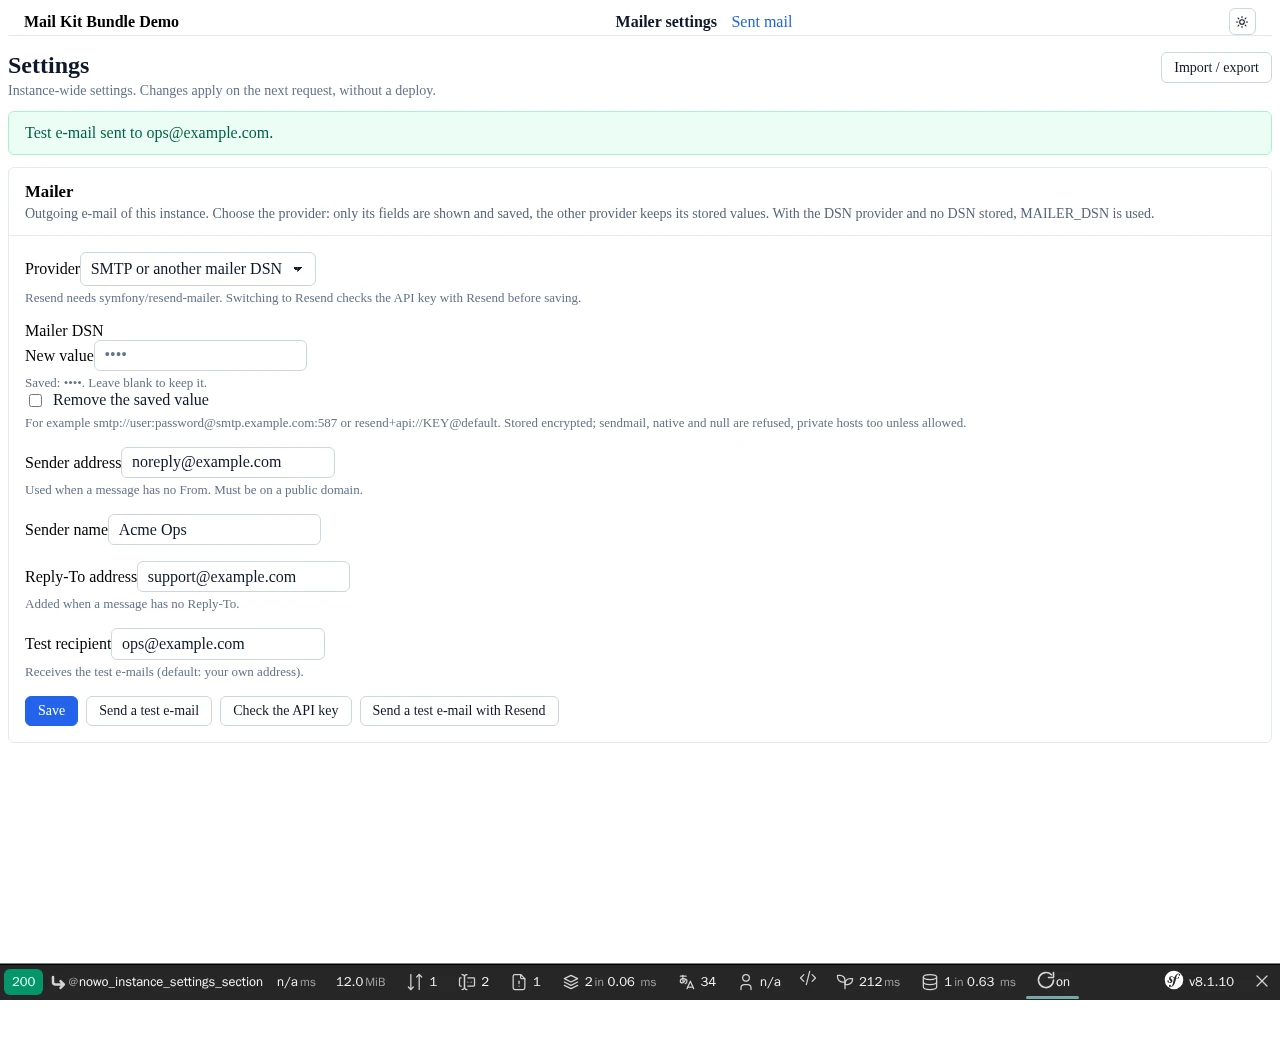
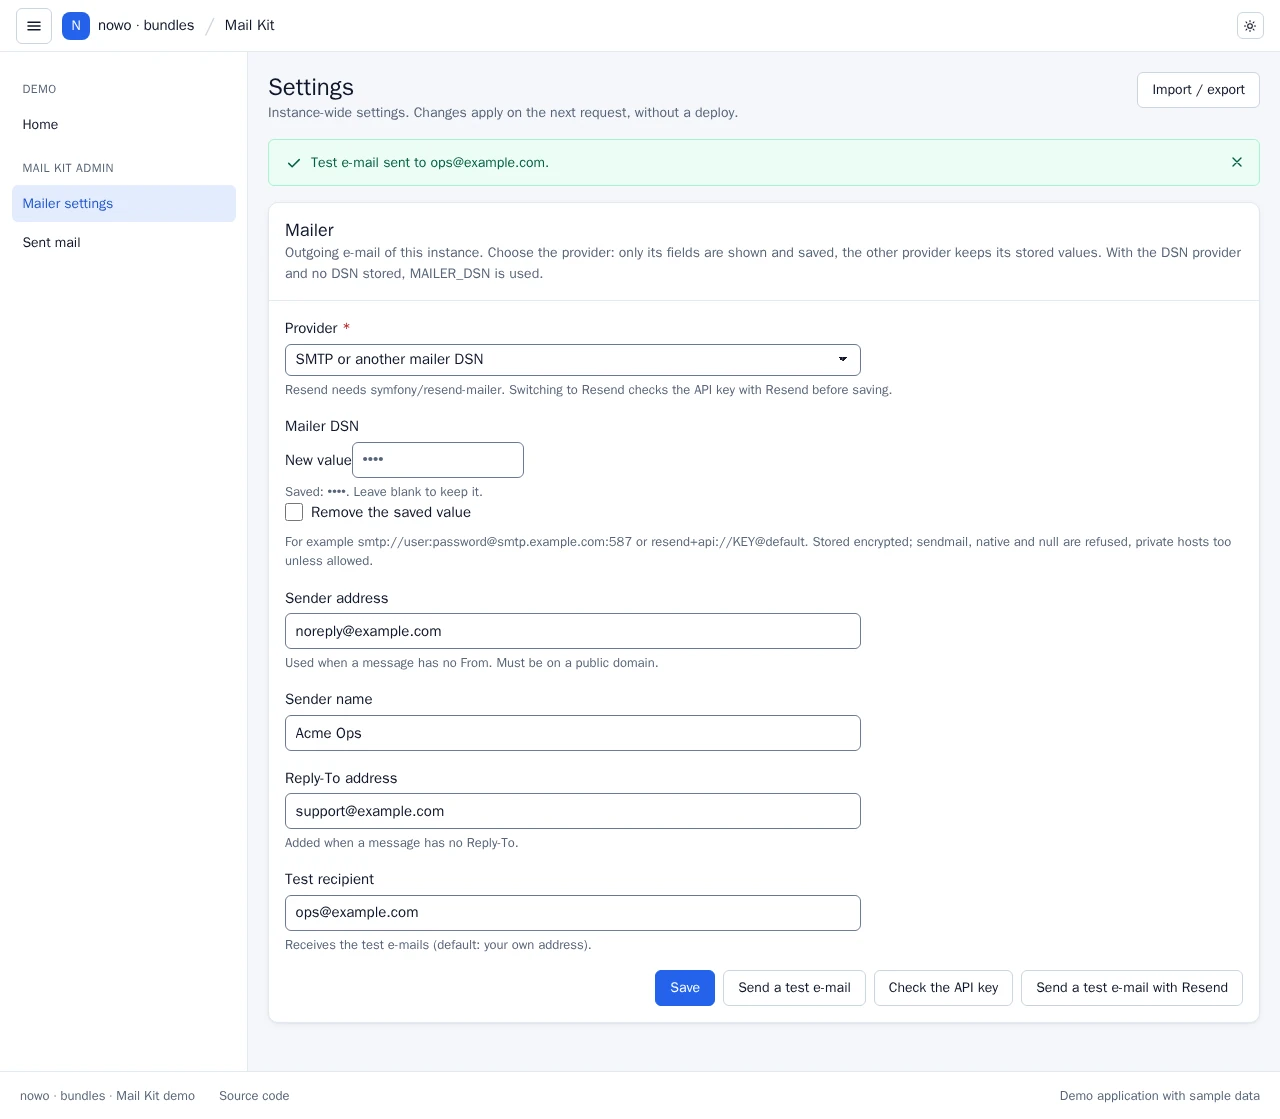
chore(demo): run the demo in UiKit's demo platform shell (#50)

diff --git a/demo/symfony8/e2e/tests/demo-platform.spec.ts b/demo/symfony8/e2e/tests/demo-platform.spec.ts
@@ -1,0 +1,172 @@
+import { test, expect, type Page } from '@playwright/test';
+import AxeBuilder from '@axe-core/playwright';
+
+/**
+ * REQ-DEMO-014: the demo runs inside UiKit's demo platform shell. Every demo page, at 1440 px and at 390 px with a touch
+ * context: the shell layout and style rules (no demo styles, no host theme tokens, no framework classes, 44 px targets,
+ * input borders 3:1), axe (wcag2a / 2aa / 21a / 21aa, serious + critical = 0) in light and dark, and the keyboard drawer.
+ */
+const PAGES: Array<{ name: string; path: string; auth?: boolean }> = [
+  { name: 'home', path: '/' },
+  { name: 'mailer settings', path: '/admin/settings/sections/mailer' },
+  { name: 'sent mail log', path: '/admin/mail/log?period=all' },
+];
+
+/** Signs the demo user in (pages marked `auth`). */
+async function signIn(page: Page): Promise<void> {
+  // this demo has no sign-in
+}
+
+async function open(page: Page, def: { path: string; auth?: boolean }): Promise<void> {
+  if (def.auth) {
+    await signIn(page);
+  }
+  await page.goto(def.path);
+}
+
+type Theme = 'light' | 'dark';
+
+async function setTheme(page: Page, theme: Theme): Promise<void> {
+  await page.evaluate((t) => {
+    document.documentElement.setAttribute('data-theme', t);
+    document.documentElement.setAttribute('data-bs-theme', t);
+  }, theme);
+}
+
+async function axe(page: Page): Promise<string[]> {
+  const result = await new AxeBuilder({ page }).withTags(['wcag2a', 'wcag2aa', 'wcag21a', 'wcag21aa']).exclude('.sf-toolbar').analyze();
+  return result.violations
+    .filter((v) => v.impact === 'serious' || v.impact === 'critical')
+    .map((v) => `${v.id}: ${v.nodes.map((n) => n.target.join(' ')).join(', ')}`);
+}
+
+/* eslint-disable */
+// prettier-ignore
+function demoPlatformRules(): string[] {
+  const issues = [];
+  const main = document.querySelector('#nowo-ui-content');
+  const shell = document.querySelector('[data-testid="demo-platform"]');
+  if (!main || !shell) return ['no-demo-platform-shell'];
+  const visible = (el) => !!(el.offsetWidth || el.offsetHeight || el.getClientRects().length);
+  const carded = (el) => el.closest('.nowo-ui-card, [data-nowo-ui-region="table"], [data-nowo-ui-region="form"], .nowo-ui-form-panel, dialog');
+  const skip = (el) => el.closest('dialog, [data-nowo-ui-region="filters"], .nowo-ui-filters, .nowo-ui-page-header');
+
+  // Layout grammar.
+  main.querySelectorAll('table').forEach((t) => { if (!carded(t)) issues.push('table-outside-card'); });
+  main.querySelectorAll('form').forEach((f) => {
+    if (f.querySelector('input:not([type="hidden"]), select, textarea') && !carded(f) && !skip(f) && !f.closest('table')) issues.push('form-outside-card');
+  });
+  const primaries = [...main.querySelectorAll('.nowo-ui-btn--primary')].filter((b) => visible(b) && !b.closest('table, dialog, [data-nowo-ui-region="filters"], .nowo-ui-filters, form'));
+  if (primaries.length > 1) issues.push(`primary-buttons:${primaries.length}`);
+  const header = main.querySelector('.nowo-ui-page-header');
+  const flashes = main.querySelector('.nowo-ui-flashes');
+  if (header && flashes && (flashes.compareDocumentPosition(header) & Node.DOCUMENT_POSITION_FOLLOWING)) issues.push('flashes-before-page-header');
+  if (document.documentElement.scrollWidth > document.documentElement.clientWidth + 1) issues.push('page-scrolls-horizontally');
+
+  // Styles: no demo styles, no host theme tokens, no CDN / foreign stylesheet, no framework classes inside the shell.
+  document.querySelectorAll('style').forEach((s) => {
+    if (s.matches('[data-nowo-ui-theme-tokens], [data-nowo-ui-appearance]')) { issues.push('host-theme-tokens'); return; }
+    if (!/sf-toolbar|sfwdt|sf-minitoolbar|sf-display/.test(s.textContent || '') && !s.closest('[id^="sfwdt"], .sf-toolbar')) issues.push('style-element');
+  });
+  document.querySelectorAll('link[rel="stylesheet"]').forEach((l) => {
+    const path = new URL(l.href, location.href).pathname;
+    if (!path.startsWith('/bundles/') && !path.startsWith('/_wdt/') && !path.startsWith('/_profiler/')) issues.push(`stylesheet:${path}`);
+  });
+  const framework = /^(acme-.*|nav-tabs|nav-link|nav-item|alert|alert-.*|form-check.*|form-control|form-select|form-label|btn|btn-.*|card|card-.*|badge|row|col|col-.*|table|table-.*)$/;
+  shell.querySelectorAll('[class]').forEach((el) => {
+    for (const c of el.classList) { if (framework.test(c)) { issues.push(`framework-class:${c}`); break; } }
+  });
+
+  // Drawer: below 901 px a closed drawer is inert and the burger says so.
+  const aside = shell.querySelector('[data-nowo-ui-aside]');
+  if (aside && window.innerWidth < 901) {
+    const open = shell.classList.contains('is-aside-open-mobile');
+    if (!open && !aside.hasAttribute('inert')) issues.push('drawer-not-inert');
+    shell.querySelectorAll('[data-nowo-ui-burger]').forEach((b) => {
+      if (visible(b) && b.getAttribute('aria-expanded') !== (open ? 'true' : 'false')) issues.push('burger-state');
+    });
+  }
+
+  // Touch: 44 px targets on coarse pointers (checkbox / radio 24 px, their label carries the 44 px row).
+  if (window.matchMedia('(pointer: coarse)').matches) {
+    const controls = [...shell.querySelectorAll('.nowo-ui-btn, button, summary, input:not([type="hidden"]), select, textarea, [role="tab"], .nowo-ui-aside__link, .nowo-ui-demo-platform__locale')]
+      .filter((el) => visible(el) && !el.closest('[inert], table, .ts-control'));
+    for (const el of controls) {
+      const r = el.getBoundingClientRect();
+      const small = el.matches('input[type="checkbox"], input[type="radio"]') ? r.height < 24 || r.width < 24 : r.height < 43.5;
+      if (small) { issues.push(`target-under-44px:${(el.className && String(el.className).split(' ')[0]) || el.tagName.toLowerCase()}`); }
+    }
+  }
+
+  // Inputs: boundary 3:1 or more against the surface behind them (WCAG 1.4.11).
+  const rgb = (c) => { const m = c.match(/[\d.]+/g); return m ? m.slice(0, 4).map(Number) : null; };
+  const lum = (c) => { const v = c.slice(0, 3).map((x) => { const s = x / 255; return s <= 0.03928 ? s / 12.92 : ((s + 0.055) / 1.055) ** 2.4; }); return 0.2126 * v[0] + 0.7152 * v[1] + 0.0722 * v[2]; };
+  const bgOf = (el) => { for (let n = el.parentElement; n; n = n.parentElement) { const c = rgb(getComputedStyle(n).backgroundColor); if (c && (c.length < 4 || c[3] > 0)) return c; } return [255, 255, 255]; };
+  shell.querySelectorAll('input:not([type="hidden"], [type="checkbox"], [type="radio"]), select, textarea').forEach((el) => {
+    if (!visible(el) || el.closest('[inert]')) return;
+    const border = rgb(getComputedStyle(el).borderTopColor);
+    if (!border) return;
+    const a = lum(border); const b = lum(bgOf(el));
+    if ((Math.max(a, b) + 0.05) / (Math.min(a, b) + 0.05) < 3) issues.push(`input-border-under-3:1:${el.id || el.name || el.tagName.toLowerCase()}`);
+  });
+
+  return [...new Set(issues)];
+}
+
+const PHONE = { viewport: { width: 390, height: 844 }, isMobile: true, hasTouch: true };
+
+for (const def of PAGES) {
+  test.describe(`demo platform: ${def.name}`, () => {
+    test('rules at 1440 px', async ({ page }) => {
+      await page.setViewportSize({ width: 1440, height: 900 });
+      await open(page, def);
+      expect(await page.evaluate(demoPlatformRules)).toEqual([]);
+    });
+
+    test('rules at 390 px, touch', async ({ browser }) => {
+      const context = await browser.newContext(PHONE);
+      const page = await context.newPage();
+      await open(page, def);
+      expect(await page.evaluate(demoPlatformRules)).toEqual([]);
+      await context.close();
+    });
+
+    for (const theme of ['light', 'dark'] as const) {
+      test(`axe ${theme}, 1440 px`, async ({ page }) => {
+        await page.setViewportSize({ width: 1440, height: 900 });
+        await open(page, def);
+        await setTheme(page, theme);
+        expect(await axe(page)).toEqual([]);
+      });
+
+      test(`axe ${theme}, 390 px`, async ({ browser }) => {
+        const context = await browser.newContext(PHONE);
+        const page = await context.newPage();
+        await open(page, def);
+        await setTheme(page, theme);
+        expect(await axe(page)).toEqual([]);
+        await context.close();
+      });
+    }
+  });
+}
+
+test('phone drawer: keyboard in and out, inert while closed', async ({ browser }) => {
+  const context = await browser.newContext(PHONE);
+  const page = await context.newPage();
+  await page.goto(PAGES[0].path);
+  const aside = page.locator('[data-nowo-ui-aside]');
+  const burger = page.locator('[data-nowo-ui-burger]').first();
+  await expect(aside).toHaveAttribute('inert', '');
+  await expect(burger).toHaveAttribute('aria-expanded', 'false');
+  await burger.focus();
+  await page.keyboard.press('Enter');
+  await expect(burger).toHaveAttribute('aria-expanded', 'true');
+  await expect(page.locator('[data-nowo-ui-aside] a:focus')).toHaveCount(1);
+  await expect(page.locator('.nowo-ui-main')).toHaveAttribute('inert', '');
+  await expect(page.locator('html')).toHaveClass(/nowo-ui-drawer-open/);
+  await page.keyboard.press('Escape');
+  await expect(burger).toBeFocused();
+  await expect(aside).toHaveAttribute('inert', '');
+  await context.close();
+});

diff --git a/demo/symfony8/e2e/tests/helpers.ts b/demo/symfony8/e2e/tests/helpers.ts
@@ -1,28 +1,11 @@
 import { type Page } from '@playwright/test';
 
-/** Wait until the Symfony Web Debug Toolbar has finished loading (optional outside dev). */
-export async function waitForWebProfiler(page: Page): Promise<void> {
-  await page.waitForSelector('.sf-toolbar', { state: 'visible', timeout: 20000 }).catch(() => undefined);
-  const mini = page.locator('.sf-minitoolbar a').first();
-  if (await mini.isVisible().catch(() => false)) {
-    await mini.click();
-  }
-  await page
-    .waitForFunction(
-      () => {
-        const bar = document.querySelector('.sf-toolbar') as HTMLElement | null;
-        if (!bar || bar.offsetParent === null) {
-          return true;
-        }
-        return !!document.querySelector('.sf-toolbar-block');
-      },
-      { timeout: 25000, polling: 250 },
-    )
-    .catch(() => undefined);
-  await new Promise((r) => setTimeout(r, 400));
-}
-
 /** The section form of the settings scaffold. */
 export function sectionForm(page: Page) {
   return page.locator('form[name="settings_section"]');
+}
+
+/** README screenshots never show the Symfony Web Debug Toolbar. */
+export async function hideWebProfiler(page: Page): Promise<void> {
+  await page.addStyleTag({ content: '.sf-toolbar, .sf-minitoolbar, [id^="sfwdt"] { display: none !important; }' });
 }

diff --git a/demo/symfony8/e2e/tests/screenshots.spec.ts b/demo/symfony8/e2e/tests/screenshots.spec.ts
@@ -1,7 +1,7 @@
 import { test, expect } from '@playwright/test';
 import { mkdirSync } from 'node:fs';
 import { resolve } from 'node:path';
-import { sectionForm, waitForWebProfiler } from './helpers';
+import { hideWebProfiler, sectionForm } from './helpers';
 
 /** REQ-DEMO-013 — README screenshots (captured as PNG, converted to WebP by scripts/to-webp.mjs). */
 const outDir = process.env.SCREENSHOT_DIR
@@ -20,14 +20,14 @@ test.describe('Mail Kit screenshots', () => {
     await page.getByTestId('nowo_mail_kit_test').click();
     await expect(page.getByText('Test e-mail sent to ops@example.com.')).toBeVisible();
     await expect(sectionForm(page)).toBeVisible();
-    await waitForWebProfiler(page);
+    await hideWebProfiler(page);
     await page.screenshot({ path: resolve(outDir, 'mailer-settings.png'), fullPage: true });
   });
 
   test('sent-mail-log — statuses, recipients, tags and transports', async ({ page }) => {
     await page.goto('/admin/mail/log?period=all');
     await expect(page.getByTestId('mail-kit-log')).toContainText('Weekly incident digest');
-    await waitForWebProfiler(page);
+    await hideWebProfiler(page);
     await page.screenshot({ path: resolve(outDir, 'sent-mail-log.png'), fullPage: true });
   });
 });

diff --git a/docs/CHANGELOG.md b/docs/CHANGELOG.md
@@ -92,6 +92,10 @@ All notable changes to this project are documented here. The format follows
 
 ## [Unreleased]
 
+### Changed
+
+- demo: the demo runs inside UiKit's demo platform shell (`@NowoUiKit/demo_platform/layout.html.twig`, UiKit ^2.60): shared top bar, aside navigation and section cards, no demo masthead markup; the Web Debug Toolbar and the CDN hot-reload scripts are off in the demo and its README screenshots. Demo only, no release.
+
 ## [1.14.1] - 2026-11-20
 
 ### Fixed
